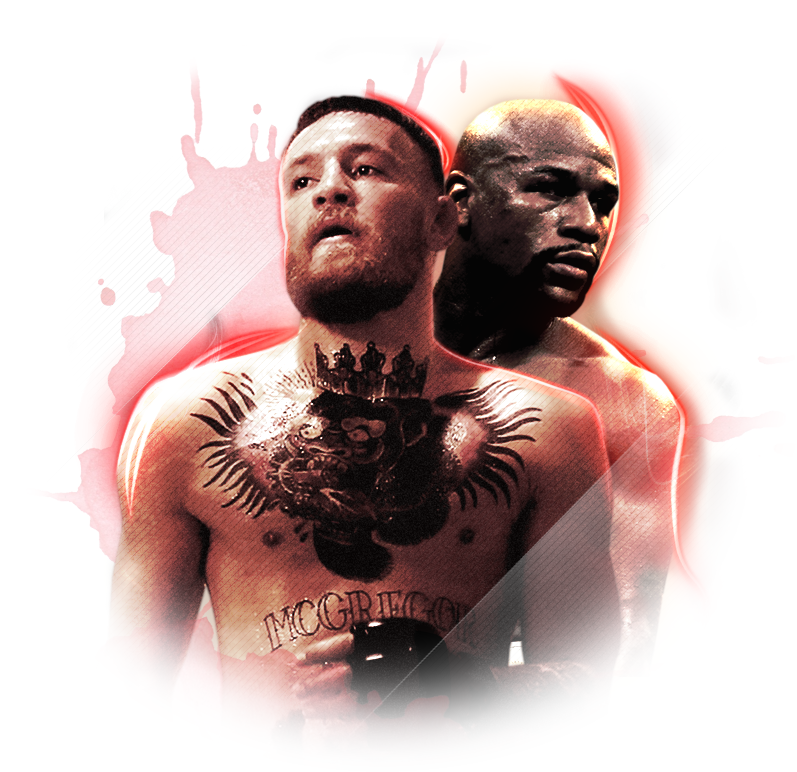
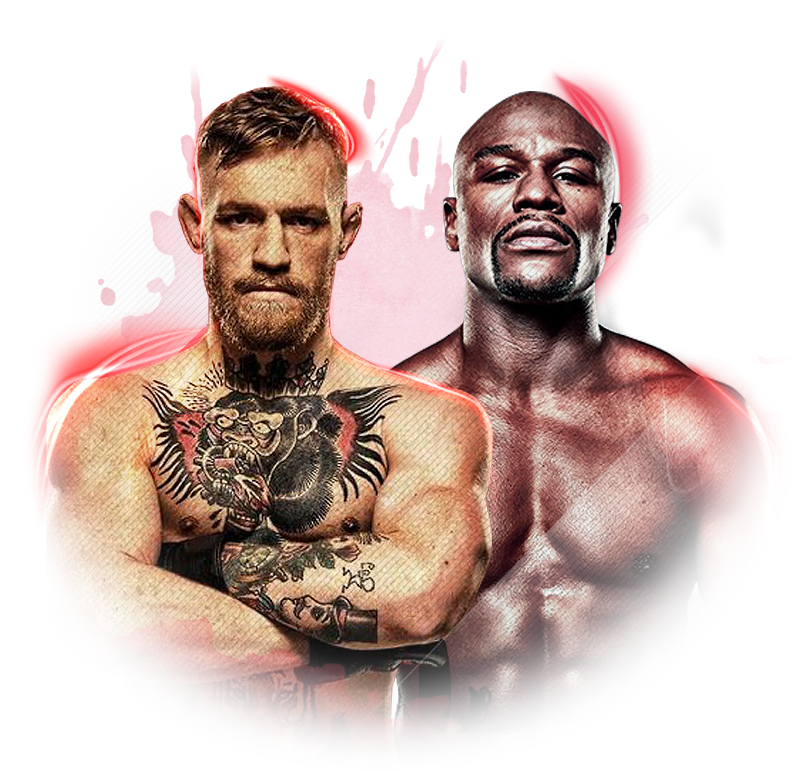
Fighters image update

diff --git a/assets/css/homepage.css b/assets/css/homepage.css
@@ -247,17 +247,27 @@ body {
   align-items: center;
 }
 
+
+@media (max-width: 479px) {
+  .fighters-bg {
+      background-position: 120% 27%;
+      background-repeat: no-repeat;
+      background-size: auto 19%;
+  }
+}
+
+@media (min-width: 480px) and (max-width: 1023px) {
+    .fighters-bg {
+      background-position: 106% 14%;
+      background-repeat: no-repeat;
+      background-size: 66% auto;
+  }
+}
+
 @media(max-width: 1023px) {
-
-.fighters-bg {
-    background-position: 141% 28%;
-    background-repeat: no-repeat;
-    background-size: 73% auto;
-}
-
   .stats-box-container {
-  margin-left: 0px;
-}
+    margin-left: 0px;
+  }
 
   .stats-box{
       margin-bottom: 5px;
@@ -328,7 +338,6 @@ body {
 .tablet-image {
   width: 611px;
   height: 415px;
-  /*z-index: 81;*/
   background-repeat: no-repeat;
   background-position: 50% 50%;
   background-size: contain;
@@ -499,7 +508,6 @@ body {
   }
   .nav-item {
     background-color: black;
-  /*opacity: 0.788;*/
   }
 
   .form-inline, .form-inline ul{
@@ -524,7 +532,6 @@ body {
   background-color: rgb(16, 16, 16);
   opacity: 0.788;
   height: 50px;
-  /*z-index: 432;*/
   background-image: url("../img/top-banner.png");
 }
 
@@ -537,7 +544,6 @@ body {
 
  .dropdown-item.nav-link-text {
     background-color: rgb(16, 16, 16);
-    /*opacity: 0.788;*/
   }
 
 
@@ -809,14 +815,11 @@ body {
   outline: none;
 }
 
-
-
 .flex-end {
-    display: flex;
-    align-items: center;
-    justify-content: flex-end;
+  display: flex;
+  align-items: center;
+  justify-content: flex-end;
 }
-
 
 .accordion-rect {
   background-color: rgba(255, 255, 255, 0.102);
@@ -836,7 +839,7 @@ body {
   width: 100%;
 }
 
-@media(max-width: 767px){
+@media(max-width: 767px) {
   .footer-bg .block {
     display: flex;
     align-items: center;
@@ -844,6 +847,7 @@ body {
     text-align: center;
   }
 }
+
 @media(max-width: 767px) {
   .footer-bg .block .flex-end {
     display: flex;
